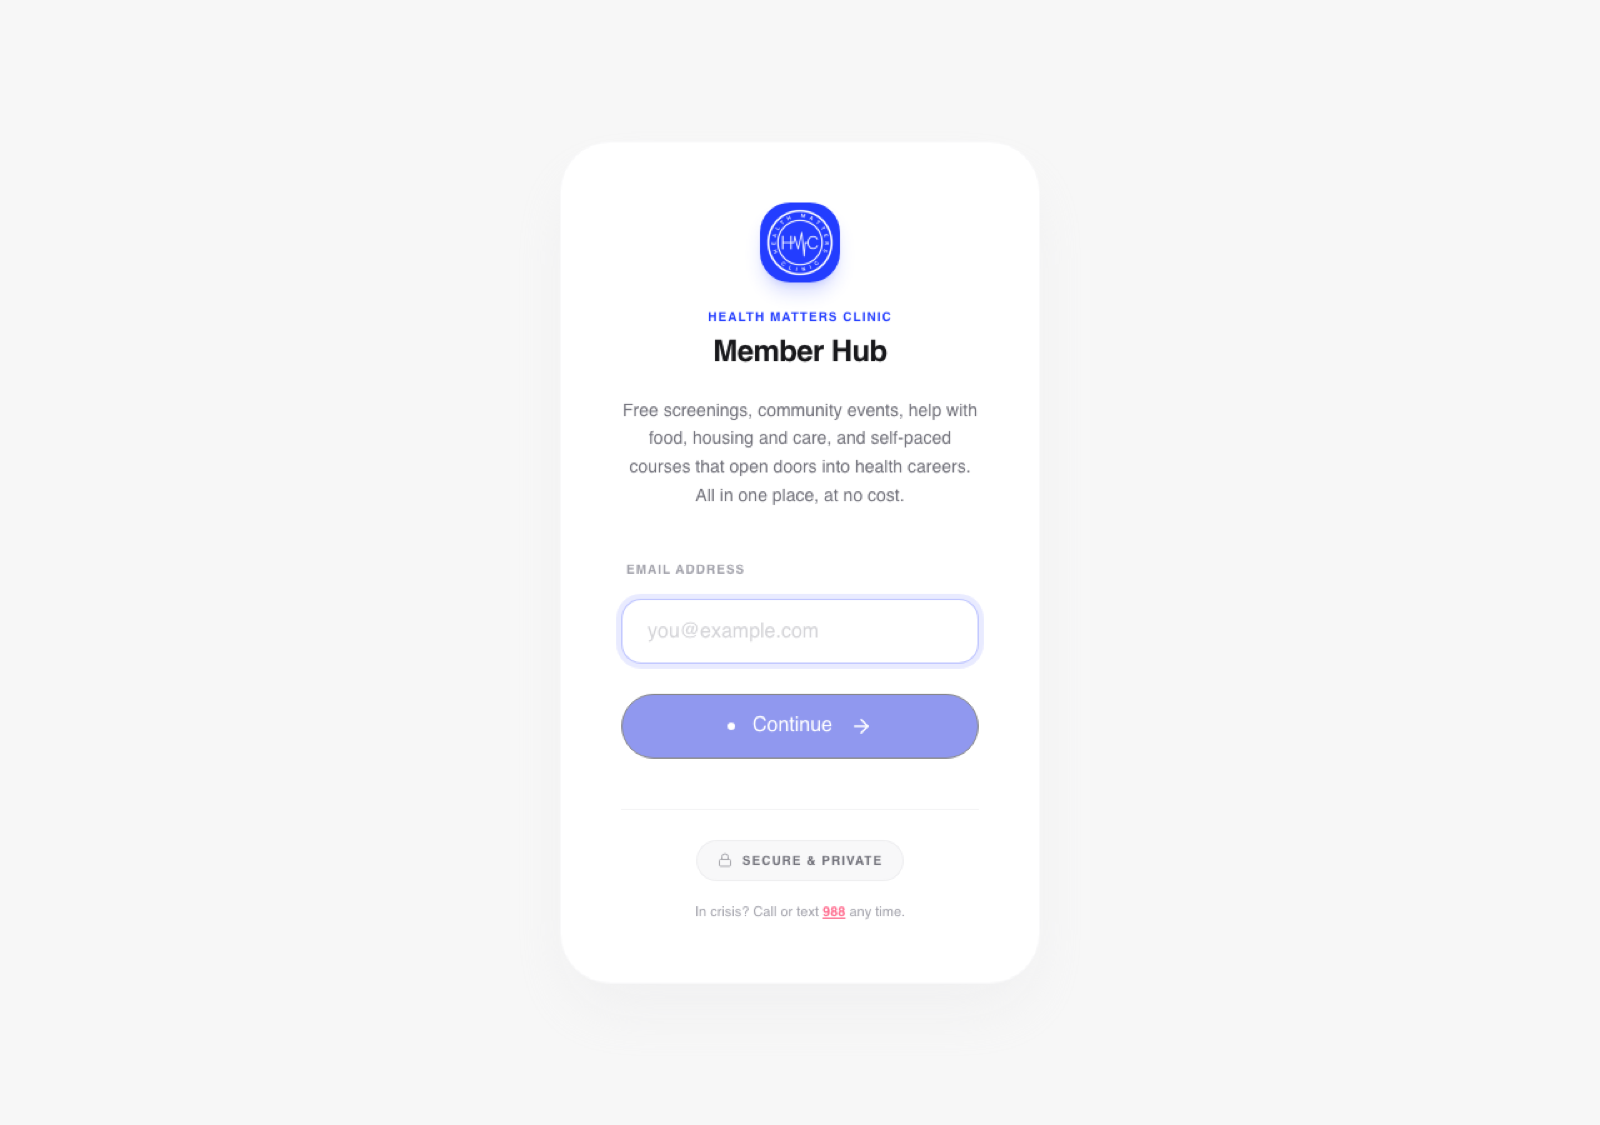
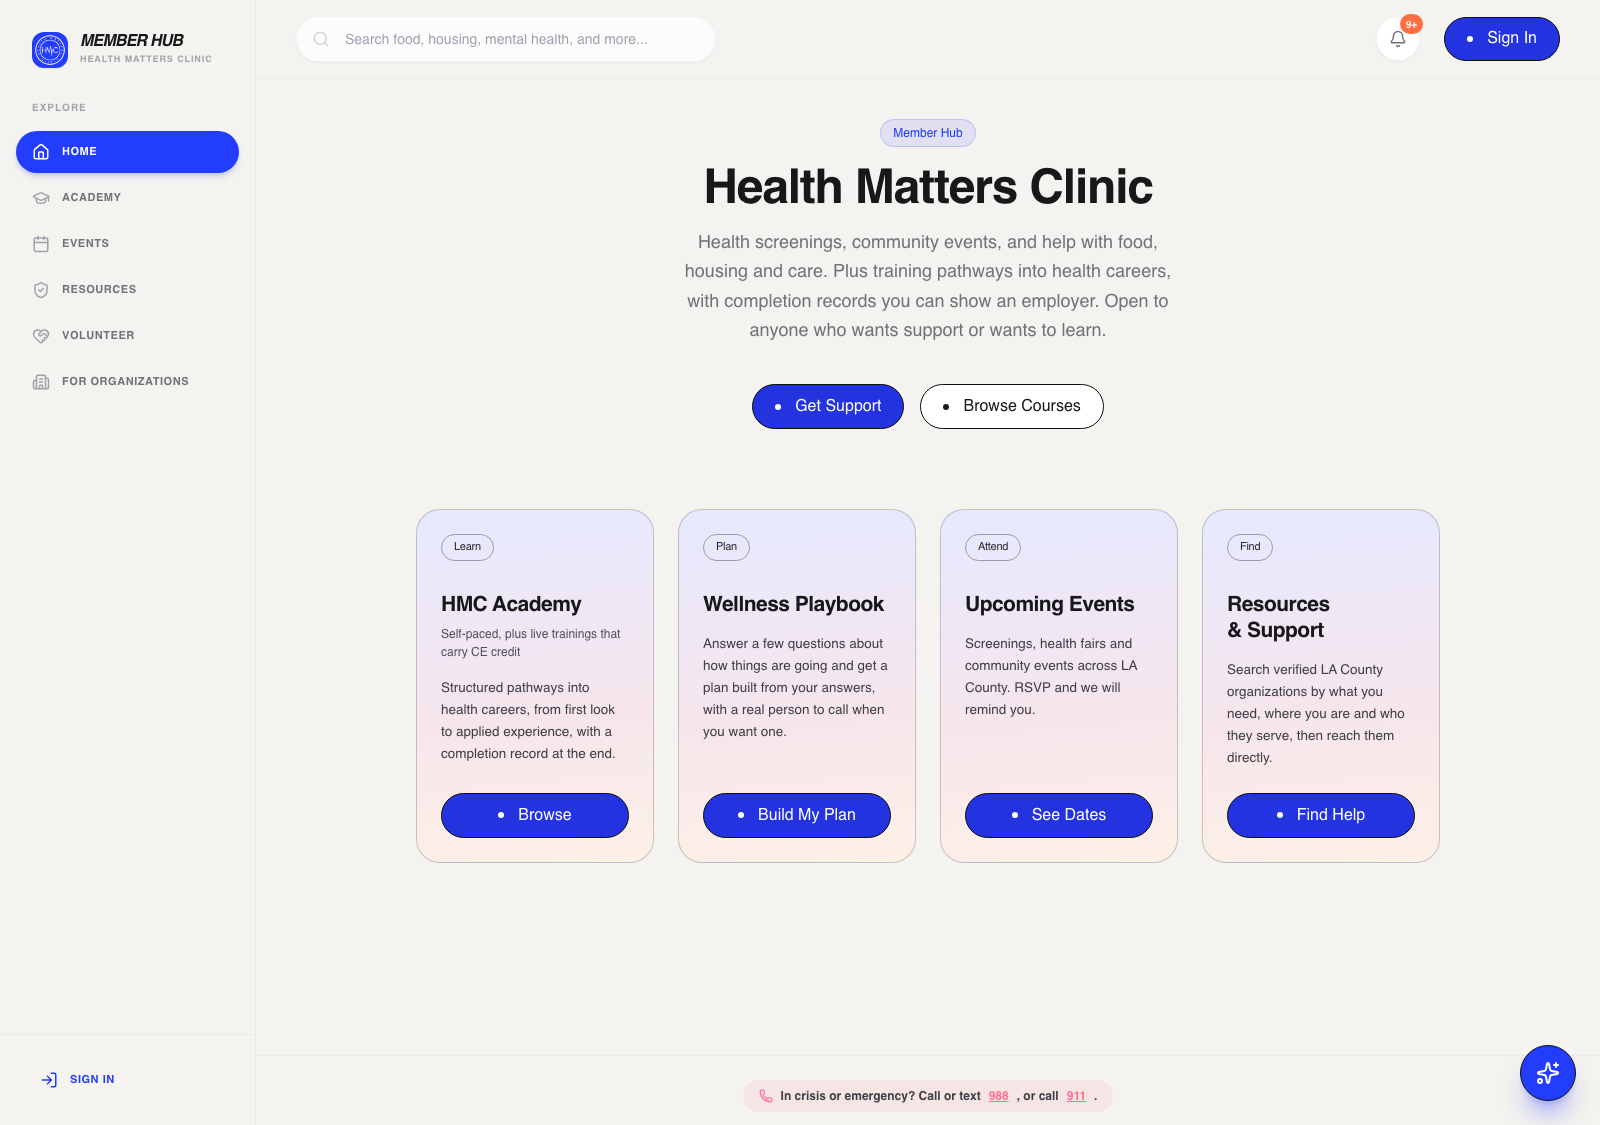
Hub section: show the real Member Hub, correct the copy and button (#1)

diff --git a/index.html b/index.html
@@ -303,35 +303,20 @@
     <div class="dive-copy">
       <p class="dive-kicker">One door.</p>
       <h2 class="dive-name" id="diveName6">Member Hub</h2>
-      <p class="dive-say">Self-paced courses that open doors into health careers, alongside screenings, events, and help with food, housing and care. Members join by invitation.</p>
+      <p class="dive-say">Self-paced courses that open doors into health careers, alongside screenings, events, and help with food, housing and care. Open to anyone who wants support or wants to learn.</p>
     </div>
     <div class="dive-ui">
       <div class="laptop">
         <div class="laptop-lid">
           <div class="laptop-screen">
-            <div class="ui-hub" role="img" aria-label="Inside the Member Hub: the Health Careers Exploration pathway, eight self-paced courses totalling about seven hours, with the first two complete and the third in progress.">
-              <p class="ui-hub-bar"><b>Member Hub</b><span>Academy</span></p>
-              <p class="ui-hub-kick">Health Careers Exploration</p>
-              <h3 class="ui-hub-h">Eight courses.<br>One roadmap.</h3>
-              <p class="ui-hub-meta">Self-paced &middot; about 7 hours &middot; no cost &middot; 2 of 8 complete</p>
-              <ul class="ui-hub-list">
-                <li class="is-done"><i></i><span>The Health Professions Ecosystem</span><em>70 min</em></li>
-                <li class="is-done"><i></i><span>Know Yourself: Interests, Values + Work Style</span><em>52 min</em></li>
-                <li class="is-now"><i></i><span>Education, Training, Licensure + Credentials</span><em>58 min</em></li>
-                <li><i></i><span>Building Experience That Actually Teaches You Something</span><em>52 min</em></li>
-                <li><i></i><span>Academic Readiness + Competency Development</span><em>54 min</em></li>
-                <li><i></i><span>Paying for the Path: Financial Aid + Cost Planning</span><em>46 min</em></li>
-                <li><i></i><span>Professional Communication, Networking + Mentorship</span><em>46 min</em></li>
-                <li><i></i><span>Build Your Personal Health-Career Roadmap</span><em>58 min</em></li>
-              </ul>
-            </div>
+            <img class="frame-shot" src="./screens/hub.png" alt="The Member Hub home page with Get Support and Browse Courses buttons above cards for HMC Academy, Wellness Playbook, Upcoming Events and Resources and Support." loading="lazy" width="1600" height="1125">
           </div>
         </div>
         <div class="laptop-base"><span class="laptop-notch"></span></div>
       </div>
     </div>
     <p class="dive-close">A first step<br>into a health career.</p>
-    <div class="dive-cta"><a class="hmc-btn-ghost" href="https://www.healthmatters.clinic/contact-us">Request an invitation</a></div>
+    <div class="dive-cta"><a class="hmc-btn-ghost" href="https://hub.healthmatters.clinic">Open the Member Hub</a></div>
   </div>
 </section>
 

diff --git a/assets/css/os.css b/assets/css/os.css
@@ -355,42 +355,6 @@ p{margin:0 0 18px}
 }
 .ui-chips li.is-on{background:var(--accent);border-color:var(--accent);color:var(--ink)}
 
-/* The Member Hub, shown from the inside rather than at its sign-in screen. A
-   login page answers how you get in; it does not answer what a member gets,
-   which is the only question anyone asks about it. Drawn in markup rather than
-   captured, because the Academy sits behind an account and a screenshot of it
-   would be stale the first time a course changes. Sized in container units so
-   it scales with the laptop instead of needing a breakpoint of its own. */
-.ui-hub{
-  position:absolute;inset:0;container-type:inline-size;
-  background:#fff;color:var(--ink);text-align:left;
-  display:flex;flex-direction:column;gap:1.9cqw;
-  padding:3.6cqw 4.2cqw;overflow:hidden;
-}
-.ui-hub-bar{display:flex;align-items:center;justify-content:space-between;font-size:2.1cqw;color:#8a8a95}
-.ui-hub-bar b{display:flex;align-items:center;gap:1.3cqw;color:var(--ink);font-weight:600}
-.ui-hub-bar b::before{content:'';width:2.2cqw;height:2.2cqw;border-radius:50%;background:var(--primary)}
-.ui-hub-kick{margin:0;font-size:1.9cqw;font-weight:700;letter-spacing:.16em;text-transform:uppercase;color:var(--primary)}
-.ui-hub-h{margin:0;font-family:'Questrial',sans-serif;font-size:4.8cqw;line-height:1.05;letter-spacing:-.02em}
-.ui-hub-meta{margin:0;font-size:2.1cqw;color:#6b6b76}
-.ui-hub-list{flex:1;display:flex;flex-direction:column;gap:1cqw;margin:0;padding:0;list-style:none}
-/* min-height:0, or flex-basis auto keeps each row at its content height and the
-   eighth course falls off the bottom of the screen. */
-.ui-hub-list li{
-  flex:1;min-height:0;display:flex;align-items:center;gap:2.1cqw;
-  border:1px solid var(--line);border-radius:1.8cqw;padding:0 2.4cqw;
-  font-size:2.3cqw;
-}
-.ui-hub-list li i{flex:0 0 auto;width:3.2cqw;height:3.2cqw;border-radius:50%;border:1px solid var(--line)}
-.ui-hub-list li span{flex:1;min-width:0;overflow:hidden;text-overflow:ellipsis;white-space:nowrap}
-.ui-hub-list li em{font-style:normal;color:#8a8a95;font-size:2cqw;white-space:nowrap}
-/* Done, in progress, not started. Three states are all a path needs to read. */
-.ui-hub-list li.is-done{background:#f4f8f5;border-color:#cfe6d6}
-.ui-hub-list li.is-done i{background:#2f9e5f;border-color:#2f9e5f}
-.ui-hub-list li.is-now{border-color:var(--primary);box-shadow:inset 0 0 0 1px var(--primary)}
-.ui-hub-list li.is-now i{border-color:var(--primary);background:radial-gradient(circle,var(--primary) 40%,transparent 42%)}
-.ui-hub-list li.is-now em{color:var(--primary);font-weight:600}
-
 /* ---------- 8. the reveal ---------- */
 .reveal{background:var(--hero);padding:clamp(90px,14vw,190px) 0;text-align:center}
 /* The line is the point of this section. The mark had been set at hero size
